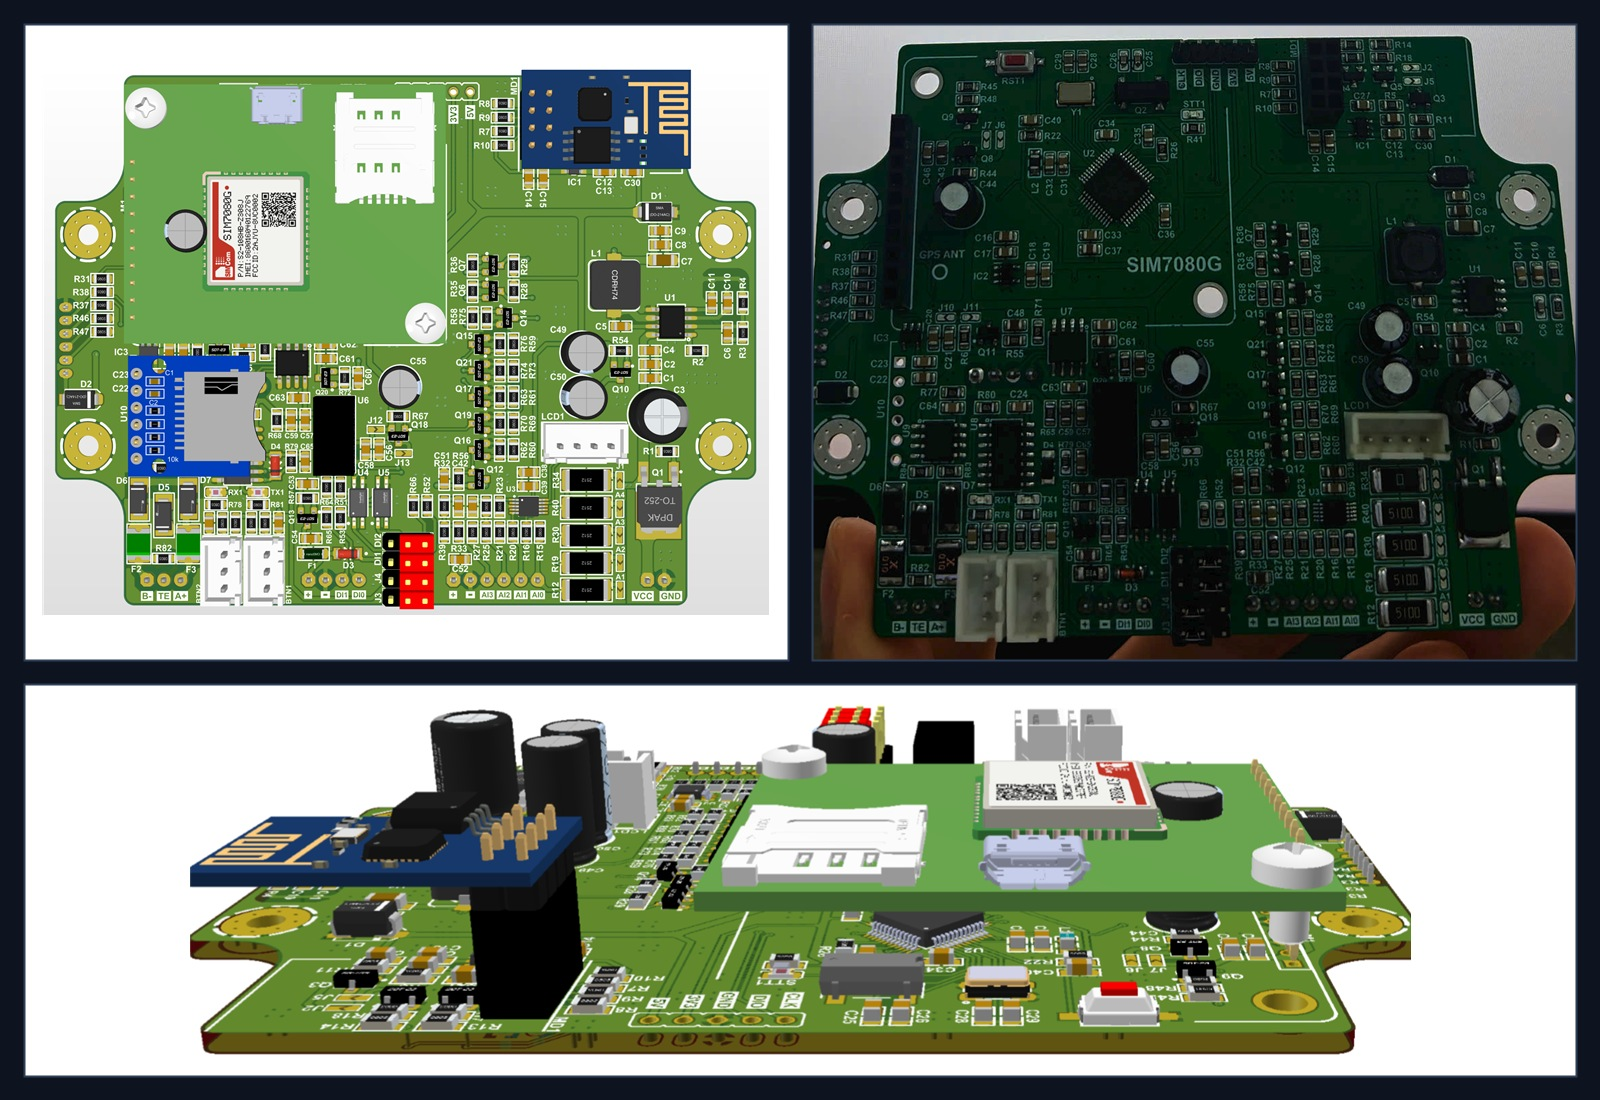
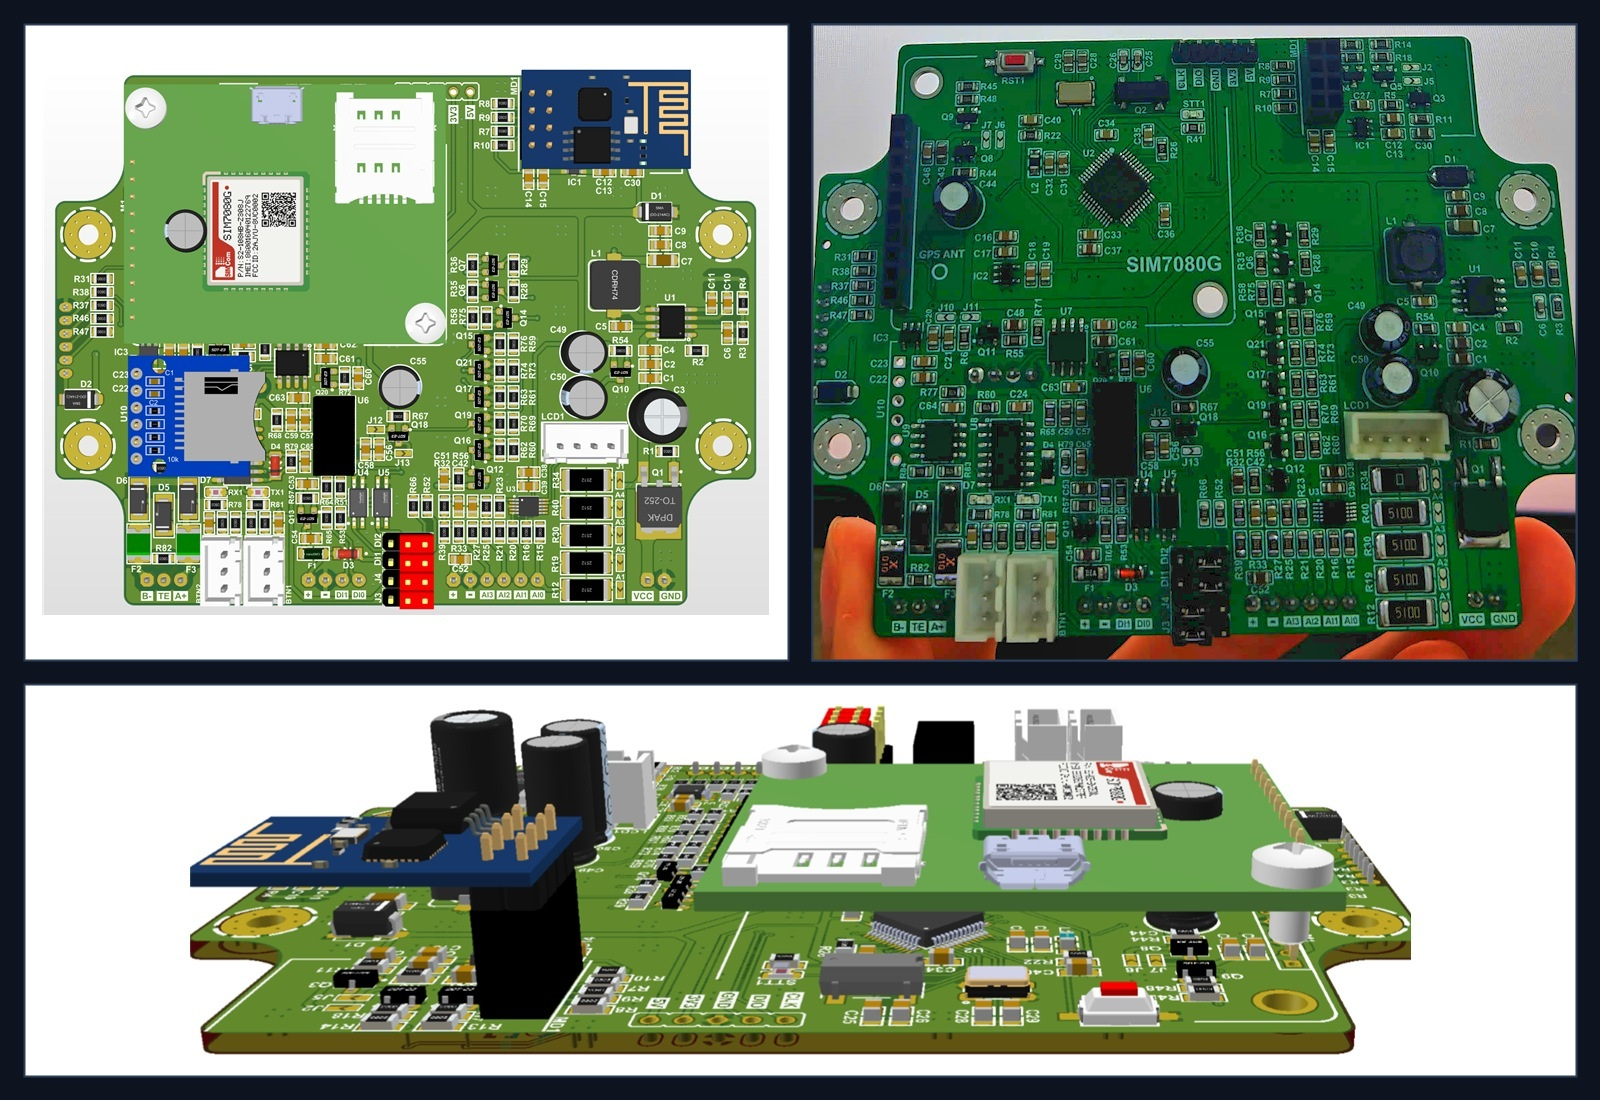
Brighten real PCB panel in STM32L datalogger composite and update cache buster

Changed region(s): [[0.5, 0.0309, 1.0, 0.6182]]

diff --git a/index.html b/index.html
@@ -652,7 +652,7 @@
           <!-- 3. STM32L Industrial Data Logger -->
           <article class="gallery-card" data-category="pcb3d" data-lightbox>
             <div class="gallery-thumb">
-              <img src="assets/media/stm32l-datalogger-3d-and-pcb.jpg" alt="STM32L Industrial Data Logger 3D Layout and Fabricated PCB" loading="lazy" />
+              <img src="assets/media/stm32l-datalogger-3d-and-pcb.jpg?v=2" alt="STM32L Industrial Data Logger 3D Layout and Fabricated PCB" loading="lazy" />
             </div>
             <div class="gallery-info">
               <span class="gallery-cat"><span data-i18n="vi">Thiết kế 3D & PCB thực tế — STM32L</span><span data-i18n="en">3D Layout & Real PCB — STM32L</span></span>
